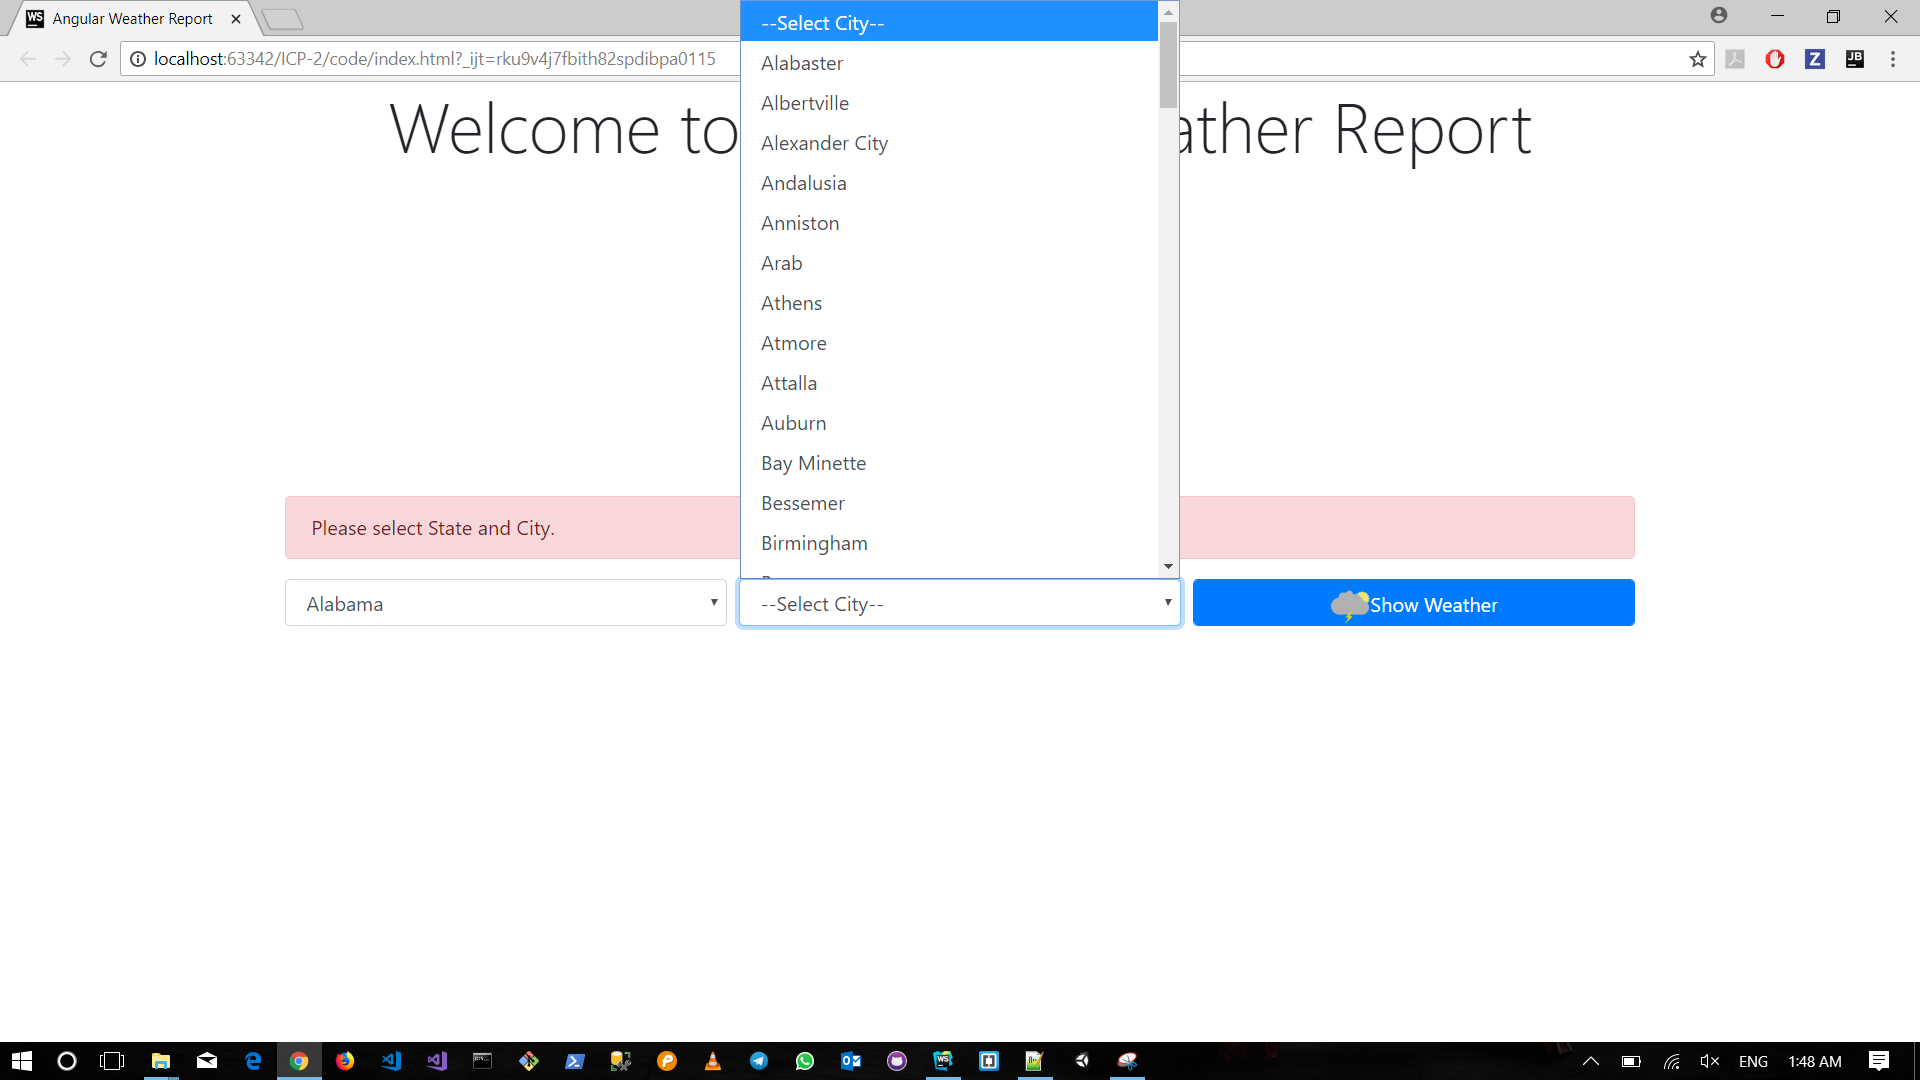
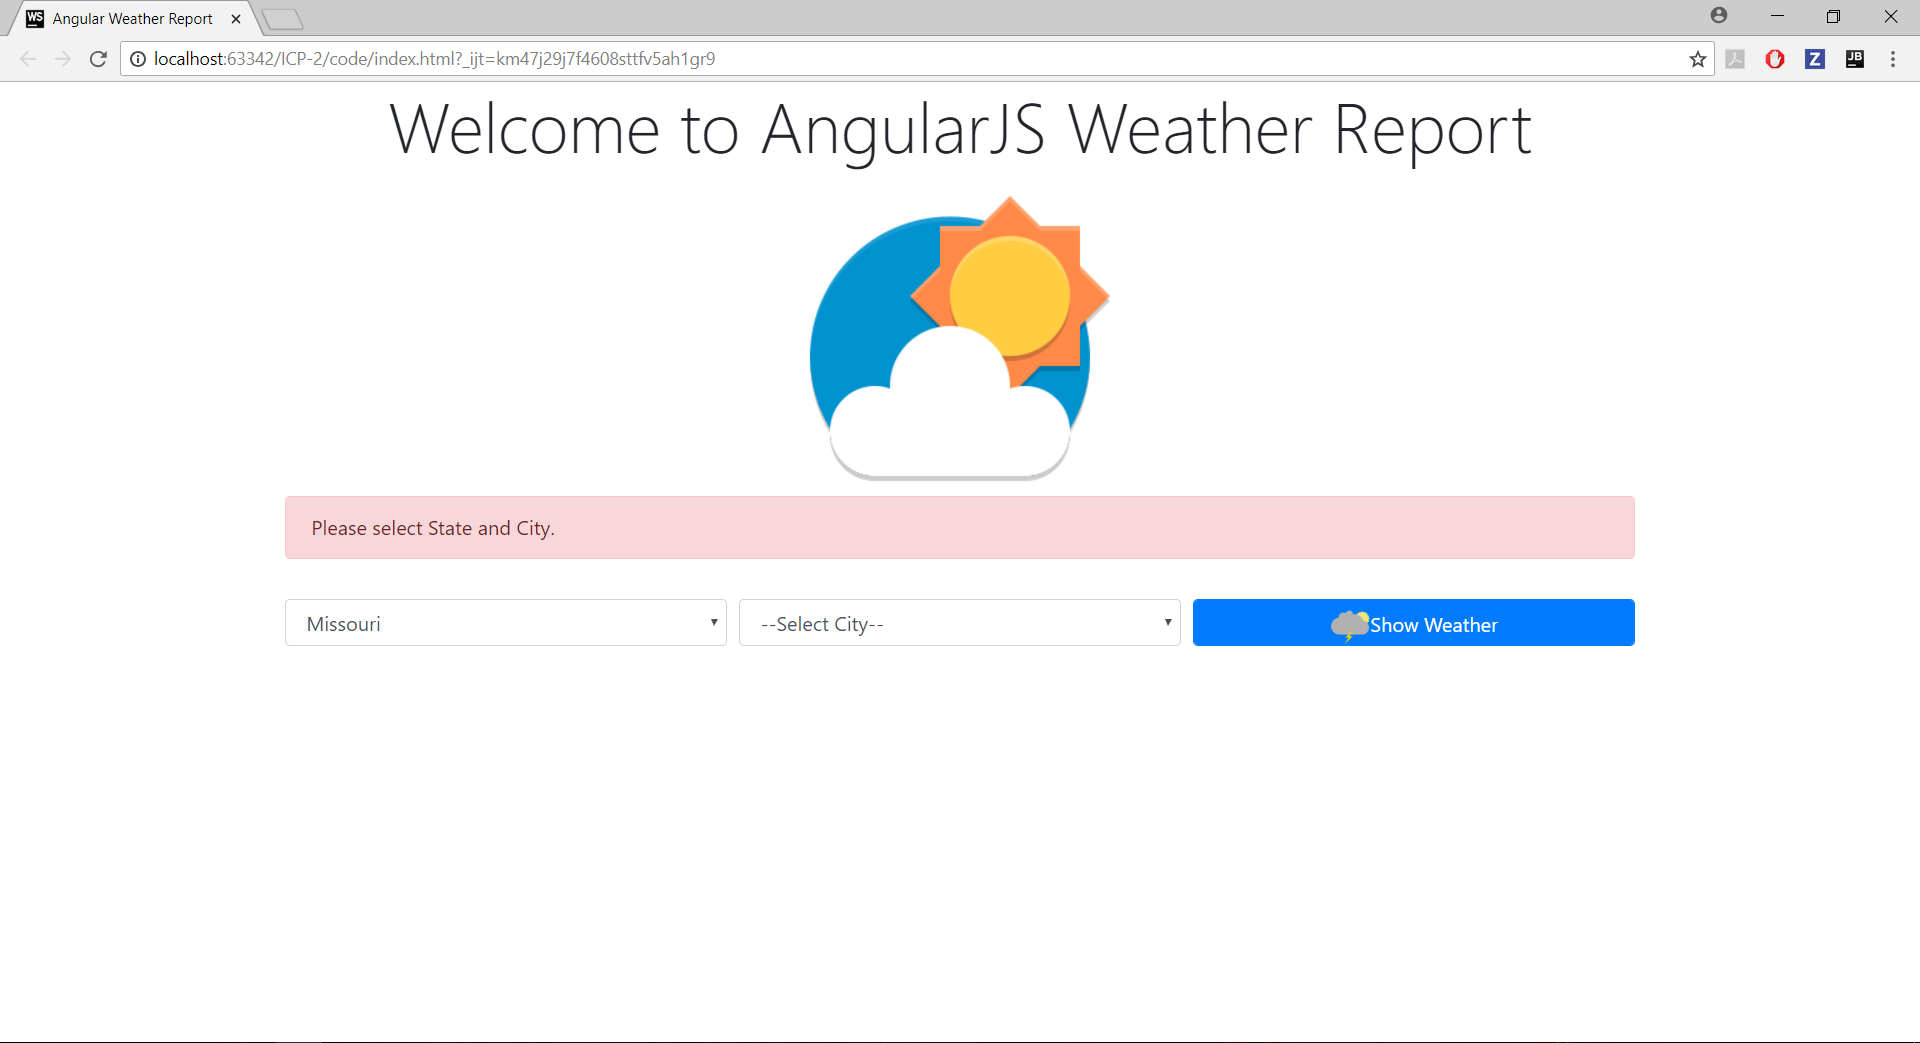
ICP - 2 screenshots

Changed region(s): [[0.125, 0.1841, 0.875, 0.6443], [0.0, 0.0, 1.0, 0.2148], [0.0, 0.9511, 1.0, 1.0]]

diff --git a/ICP-2/code/index.html b/ICP-2/code/index.html
@@ -24,19 +24,19 @@
         <!-- Form to take state and city data -->
         <form>
             <div class="form-row">
-                <div class="col-sm-4">
+                <div class="col-sm-4 mb-3 mt-3">
                     <select class="form-control" ng-model="statecode" id="statecode" ng-change="fillCity()">
                         <option value="0">--Select State--</option>
                         <option ng-repeat="objstate in states" value="{{objstate.abb}}">{{objstate.state}}</option>
                     </select>
                 </div>
-                <div class="col-sm-4">
+                <div class="col-sm-4 mb-3 mt-3">
                     <select class="form-control" ng-model="cityname" id="cityname">
                         <option value="0">--Select City--</option>
                         <option ng-repeat="objcity in cities" value="{{objcity.city}}">{{objcity.city}}</option>
                     </select>
                 </div>
-                <div class="col-sm-4">
+                <div class="col-sm-4 mb-3 mt-3">
                     <button type="button" class="btn btn-primary form-control" ng-click="displayWeather()">
                         <img src="images/weather-icon.png" class="width-2em"/>Show Weather
                     </button>
@@ -46,7 +46,7 @@
     </div>
     <!-- Weather display -->
     <div id="weather-display" ng-repeat="re in result | limitTo:5">
-        <div class="col-sm-3 float-left">
+        <div class="col-md-3 float-left">
             <div class="card bg-light mb-3 mt-3">
                 <div class="card-body">
                     <img src="{{re.icon_url}}"/>
